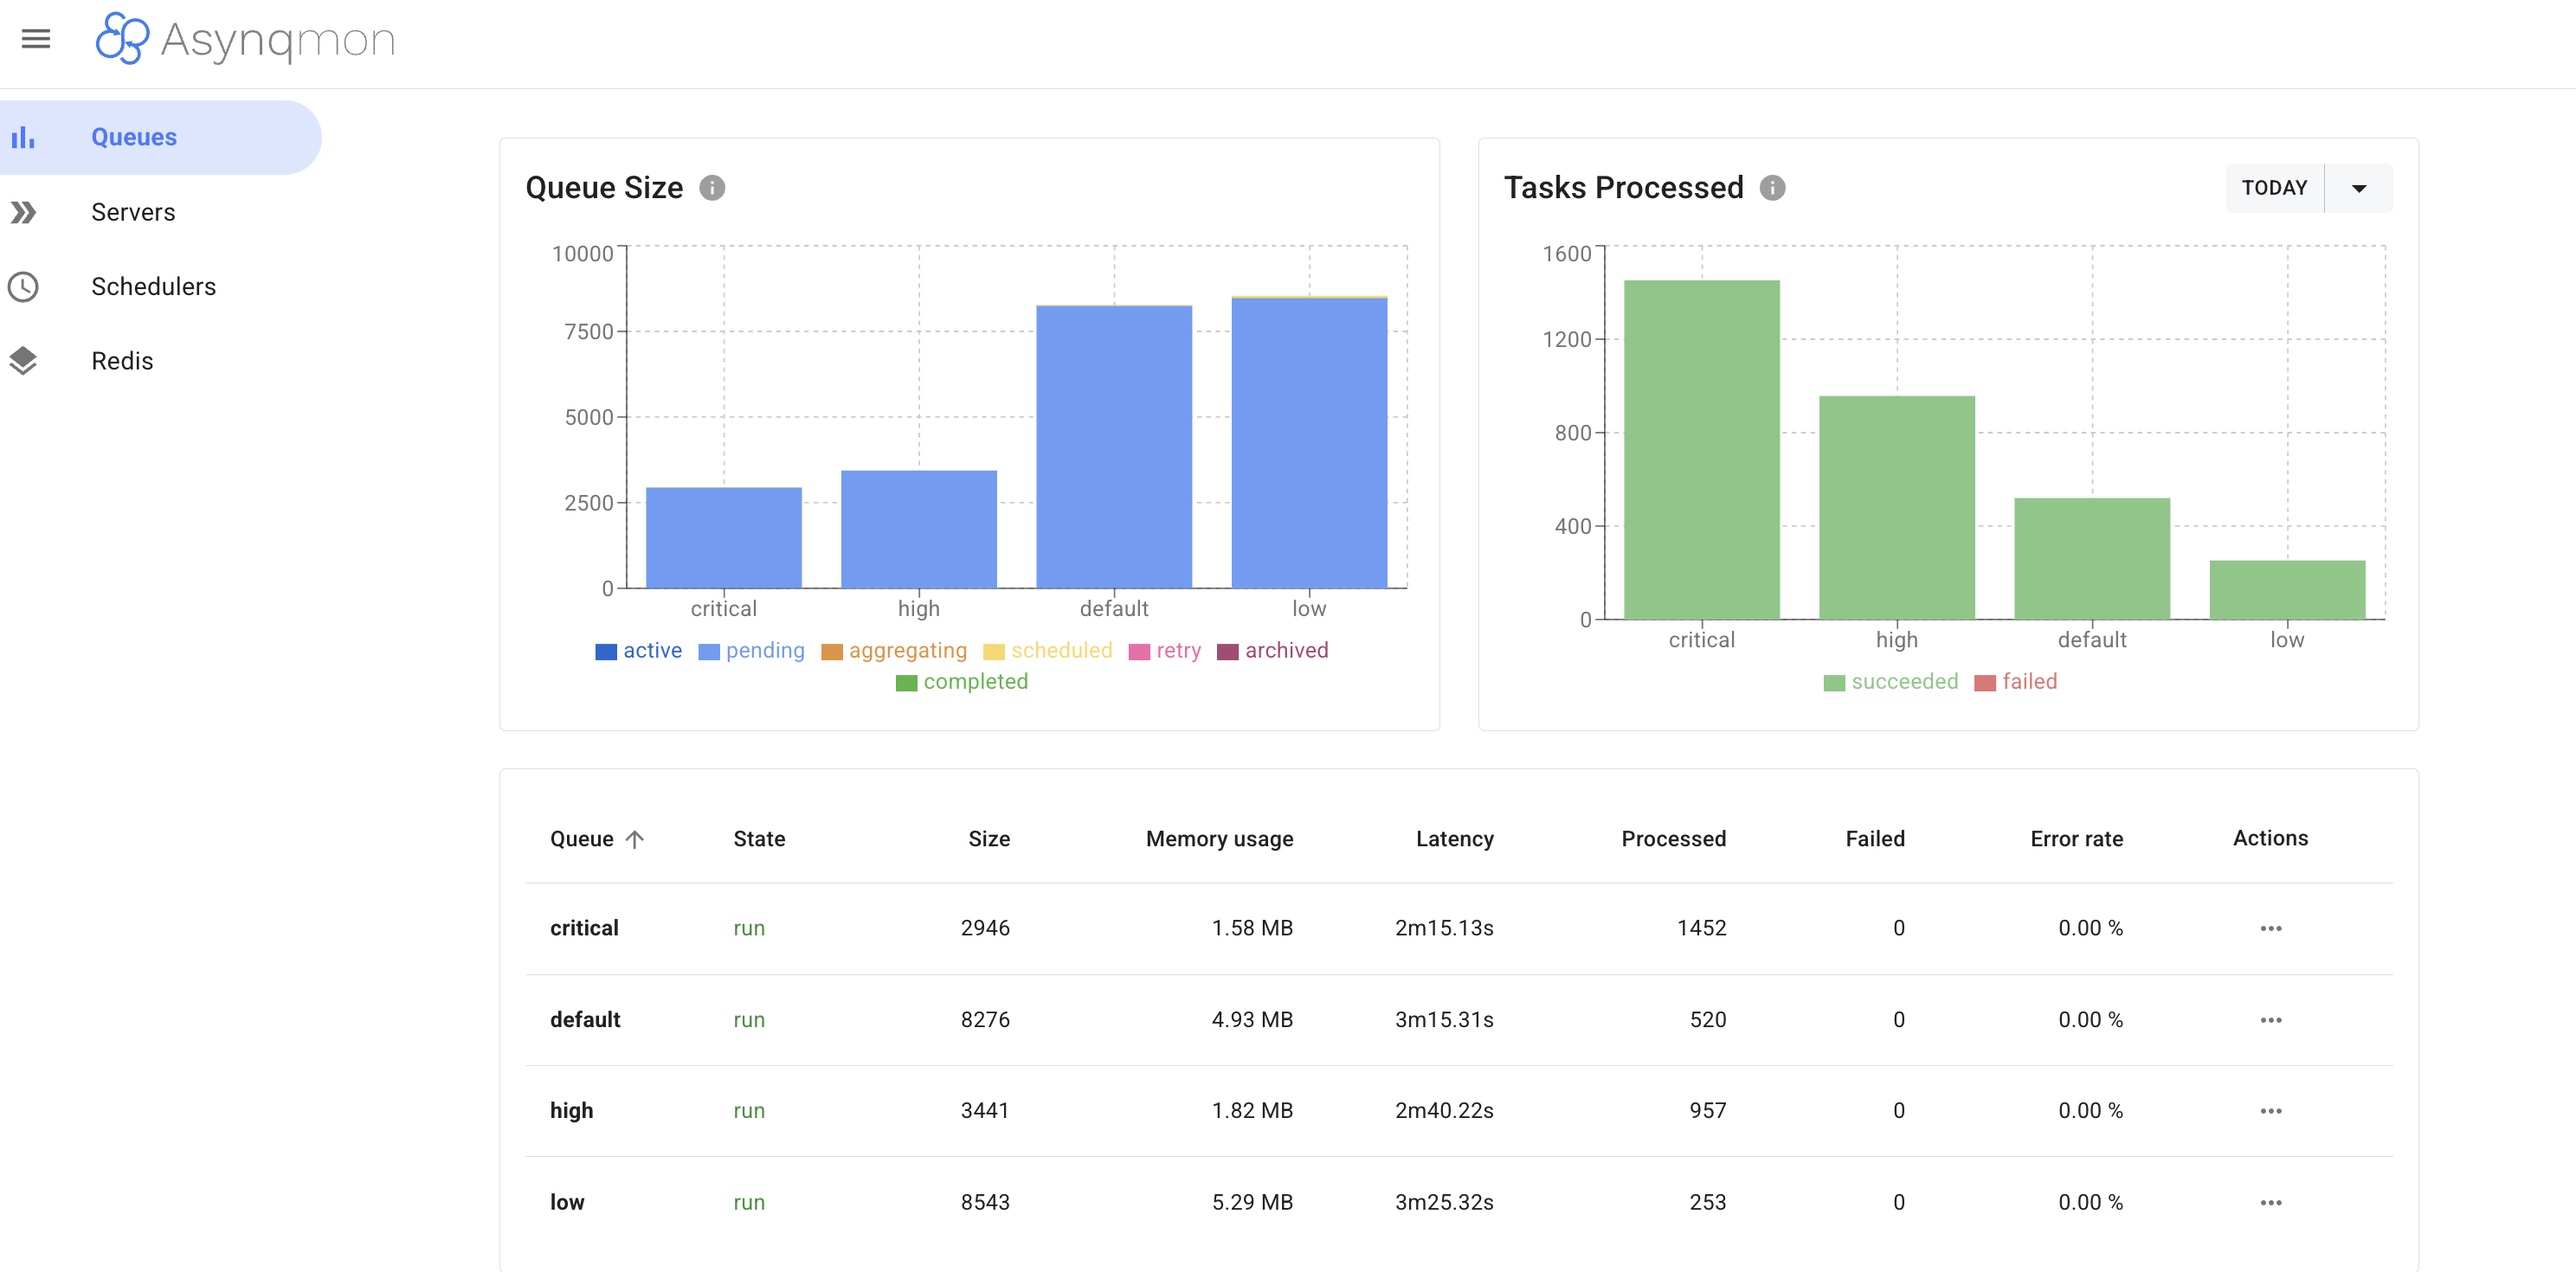
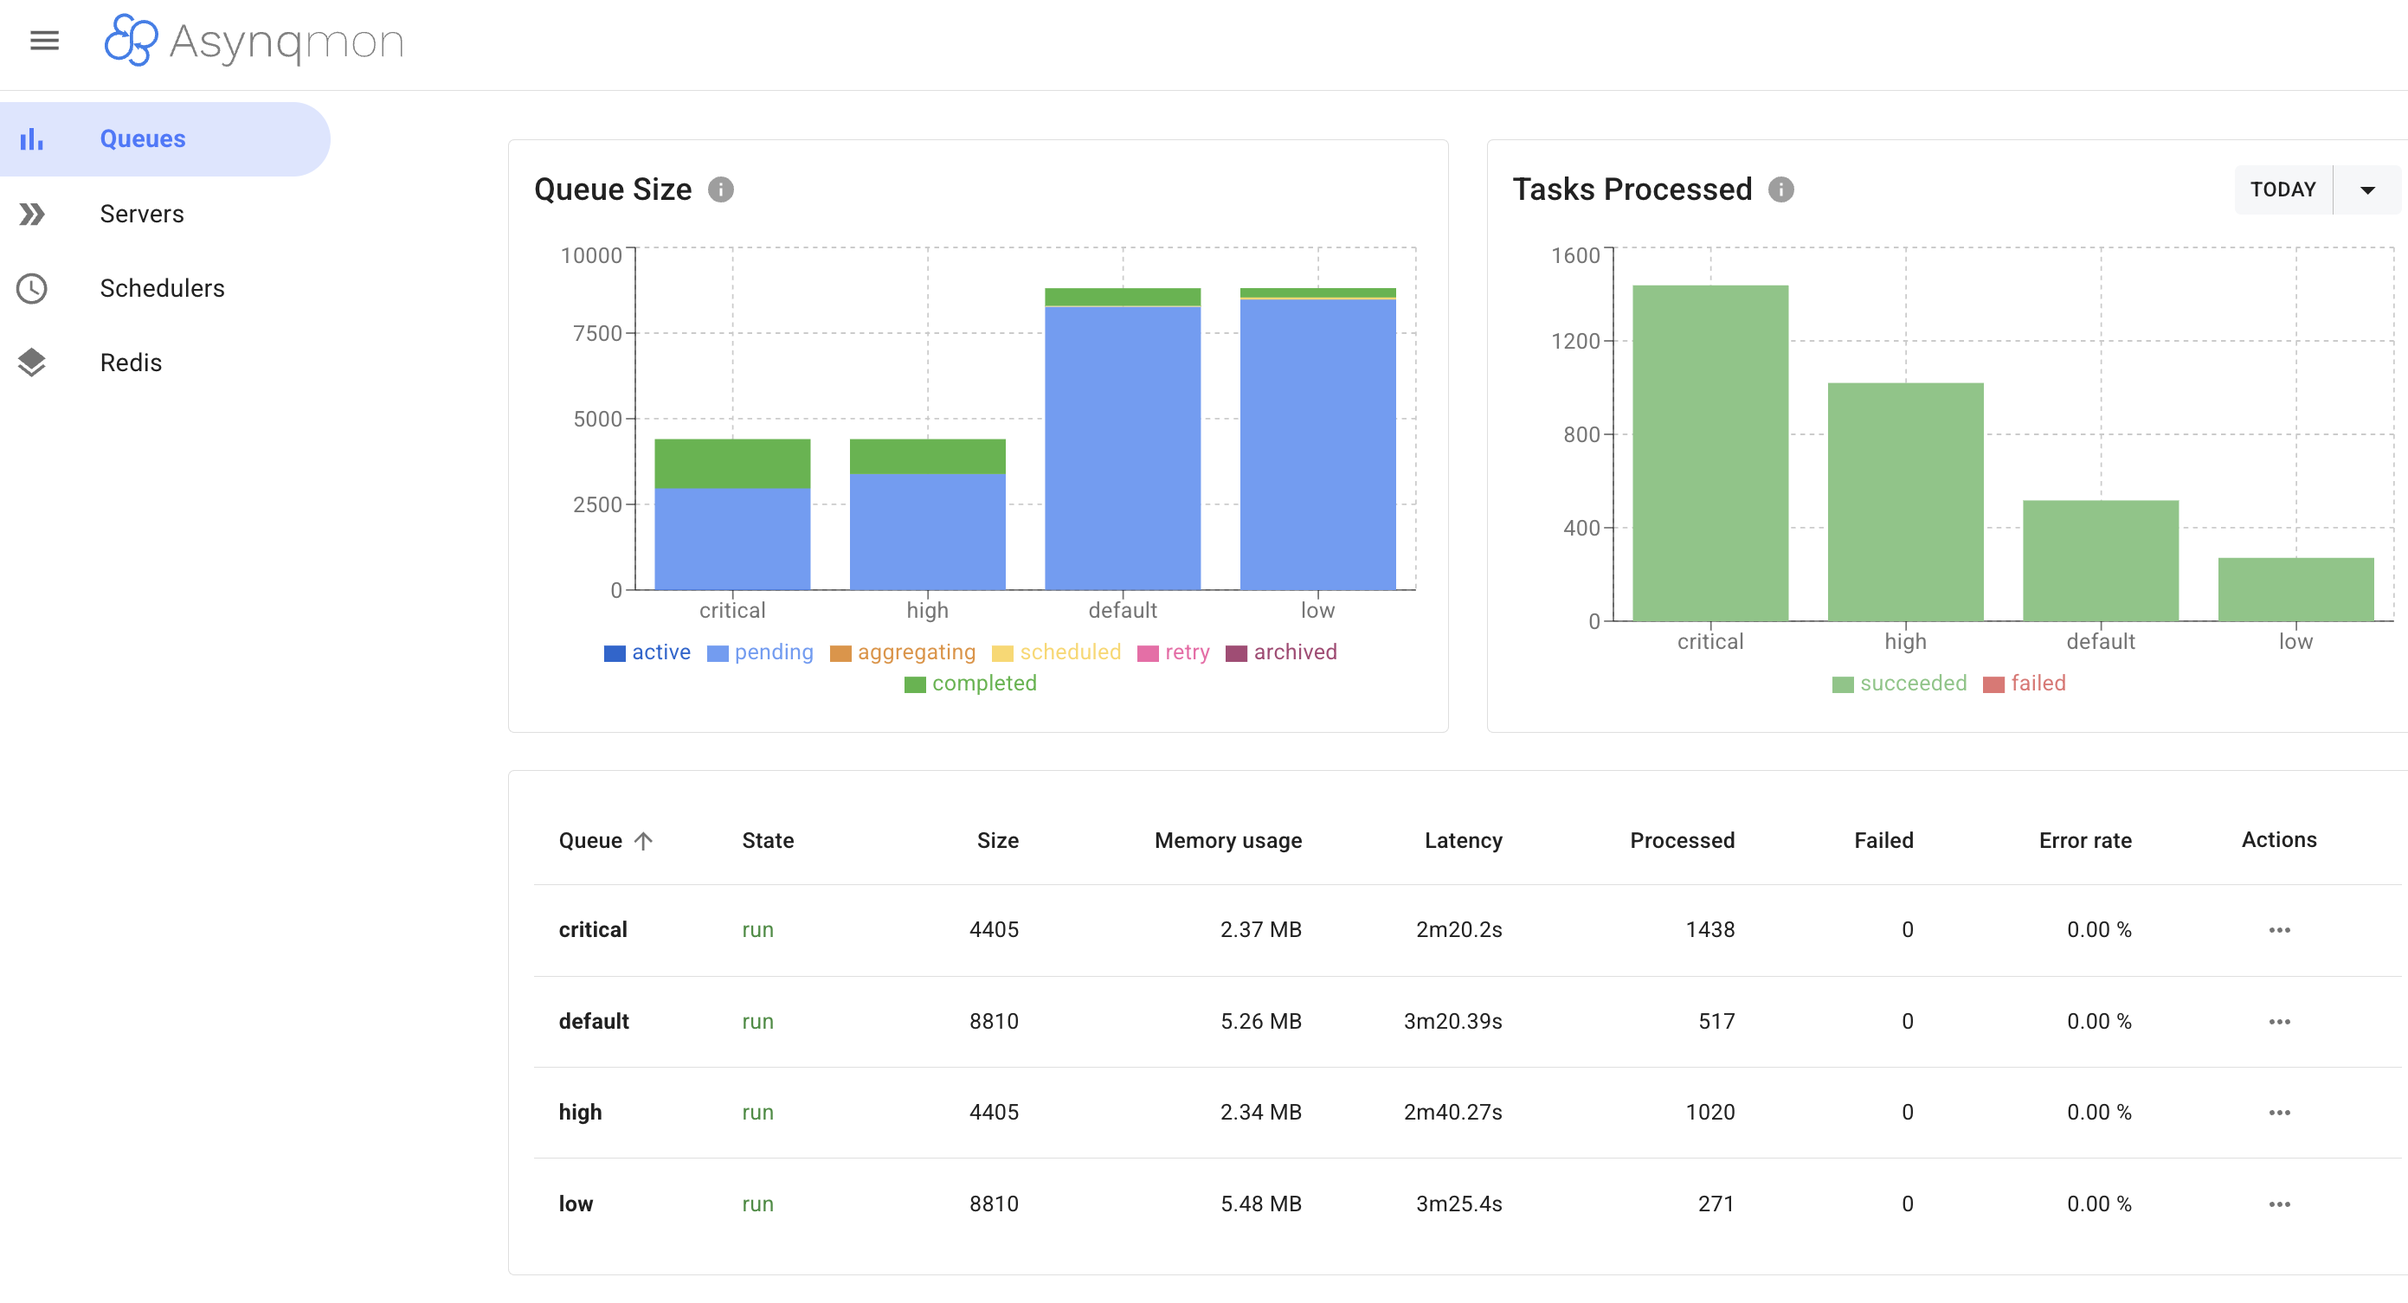
docs: refresh Basic Load results after DB updates and retention
- Update Basic Load metrics to latest run (17,620 req, 73.18 req/s, p95 41.89ms)
- Update Asynqmon queue stats and note retention shows completed tasks
- Remove docs/screenshots/README.md (RESULTS.md is the single source)

diff --git a/docs/RESULTS.md b/docs/RESULTS.md
@@ -49,39 +49,39 @@ Hardware:
 ![Basic Load Test Results](screenshots/basic-load-k6.png)
 
 **Key Metrics:**
-- **Total Requests:** 17,592
-- **Throughput:** 72.94 req/s
-- **Response Time (avg):** 9.82ms ⚡
-- **Response Time (p95):** 45.40ms ✅
-- **Response Time (min):** 0.09ms
-- **Response Time (max):** 246.29ms
+- **Total Requests:** 17,620
+- **Throughput:** 73.18 req/s
+- **Response Time (avg):** 9.15ms ⚡
+- **Response Time (p95):** 41.89ms ✅
+- **Response Time (min):** 0.08ms
+- **Response Time (max):** 224.59ms
 - **Error Rate:** 0.00% 🎯
 - **Failed Requests:** 0
 - **Max Virtual Users:** 50
-- **Duration:** 4m01.2s
-- **Iterations:** 4,398 completed
+- **Duration:** 4m00.8s
+- **Iterations:** 4,405 completed
 
 ### Asynqmon Dashboard
 
 <!-- Screenshot: Asynqmon showing queue stats -->
 ![Asynqmon Queue Stats](screenshots/basic-load-asynqmon.png)
 
-**Note:** Screenshot taken immediately after K6 test completion, showing worker continuing to process background tasks asynchronously (as designed).
+**Note:** Screenshot taken immediately after K6 test completion. Task retention is enabled, so completed tasks are visible in Asynqmon.
 
 **Queue Processing:**
 
 | Queue | Size (Pending) | Processed | Failed | Latency | Memory | Error Rate |
 |-------|----------------|-----------|--------|---------|---------|------------|
-| **Critical** | 2,946 | 1,452 | 0 | 2m15.13s | 1.58 MB | 0.00% |
-| **High** | 3,441 | 957 | 0 | 2m40.22s | 1.82 MB | 0.00% |
-| **Default** | 8,276 | 520 | 0 | 3m15.31s | 4.93 MB | 0.00% |
-| **Low** | 8,543 | 253 | 0 | 3m25.32s | 5.29 MB | 0.00% |
+| **Critical** | 4,405 | 1,438 | 0 | 2m20.2s | 2.37 MB | 0.00% |
+| **High** | 4,405 | 1,020 | 0 | 2m40.27s | 2.34 MB | 0.00% |
+| **Default** | 8,810 | 517 | 0 | 3m20.39s | 5.26 MB | 0.00% |
+| **Low** | 8,810 | 271 | 0 | 3m25.4s | 5.48 MB | 0.00% |
 
 **Key Findings:**
-- ✅ **Priority queue working perfectly:** Critical processed most (1,452), Low processed least (253)
+- ✅ **Priority queue working correctly:** Critical processed most (1,438), Low processed least (271)
 - ✅ **Zero failures** across all queues - 100% success rate
 - ✅ **Worker handling tasks efficiently:** Processing in correct priority order (6:4:2:1 ratio)
-- ✅ **Latency increases with lower priority:** Critical (2m15s) < High (2m40s) < Default (3m15s) < Low (3m25s)
+- ✅ **Latency increases with lower priority:** Critical (2m20s) < High (2m40s) < Default (3m20s) < Low (3m25s)
 - ✅ **All 6 task types** (payment, inventory, email, invoice, analytics, warehouse) processed successfully
 - ✅ **System stable under sustained load:** 50 concurrent users, zero errors
 - ✅ **Queue backlog is normal:** Tasks continue processing after API requests complete (async architecture working as designed)
